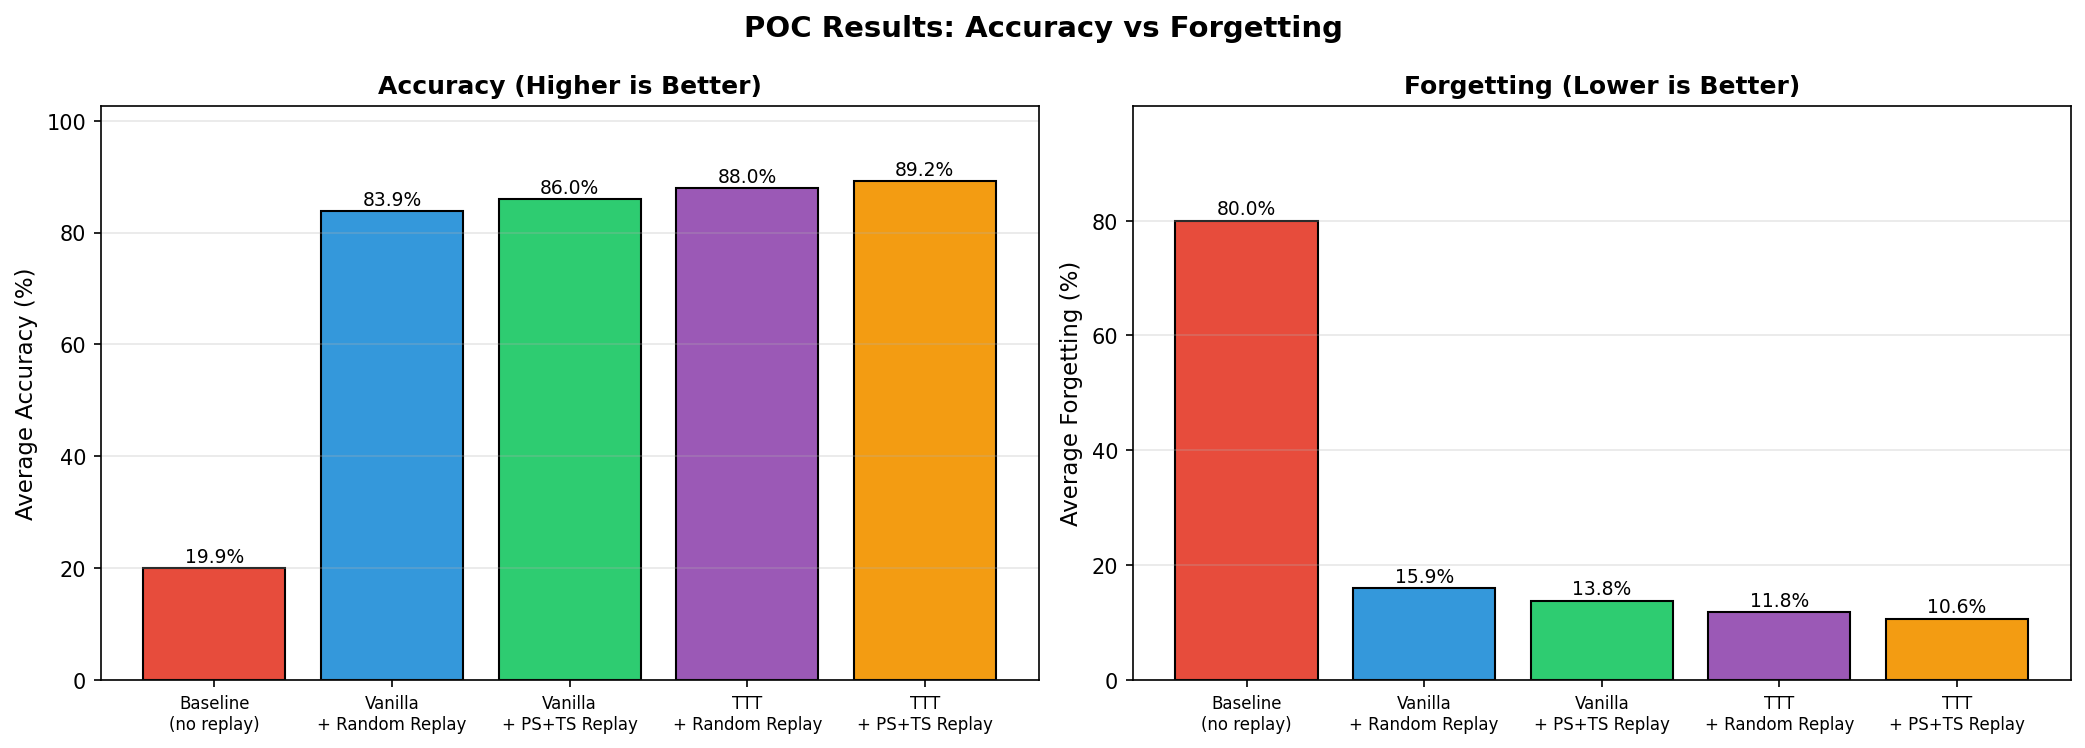
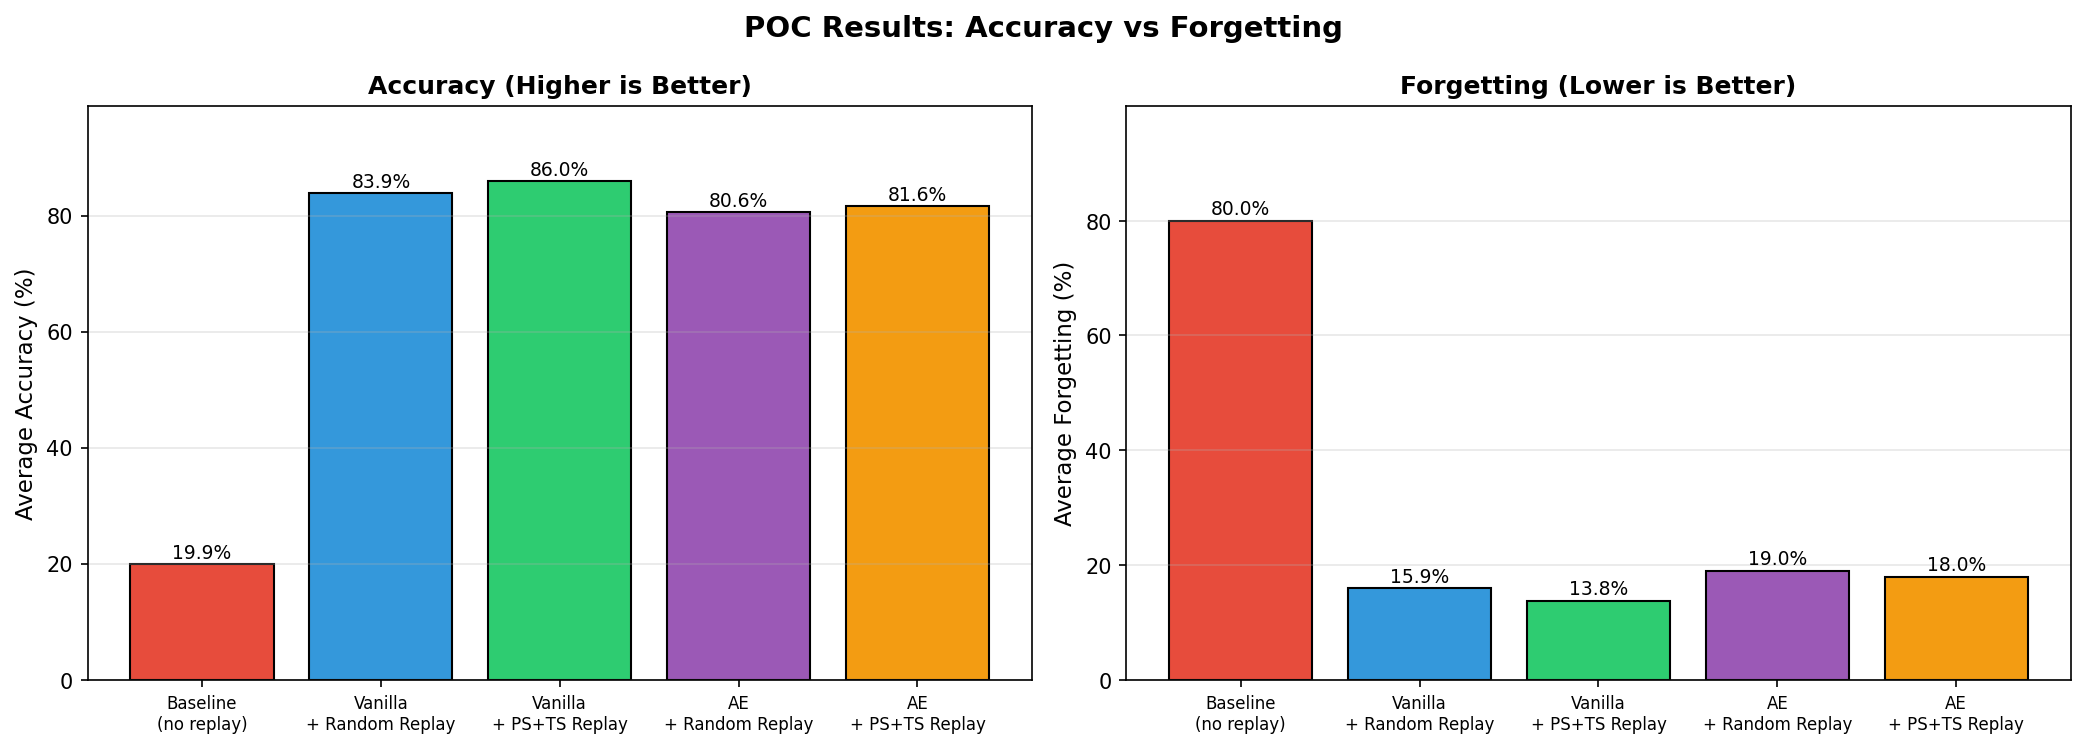
ae results

diff --git a/results/poc/SUMMARY.md b/results/poc/SUMMARY.md
@@ -4,8 +4,8 @@
 Comparing different replay strategies and methods for continual learning:
 - Does replay help? (Baseline vs Replay methods)
 - Does PS+TS improve over random replay?
-- Does TTT (Test-Time Training) help?
-- Does combining TTT with PS+TS give the best results?
+- Does Autoencoder (reconstruction loss) help?
+- Does combining Autoencoder with PS+TS give the best results?
 
 ## Setup
 - Dataset: Split-MNIST (5 tasks)
@@ -19,17 +19,17 @@ Comparing different replay strategies and methods for continual learning:
 | Baseline (no replay) | 19.9% | 80.0% | - |
 | Vanilla + Random Replay | 83.9% | 15.9% | +63.9% |
 | Vanilla + PS+TS Replay | 86.0% | 13.8% | +66.0% |
-| TTT + Random Replay | 88.0% | 11.8% | +68.1% |
-| TTT + PS+TS Replay | 89.2% | 10.6% | +69.3% |
+| AE + Random Replay | 80.6% | 19.0% | +60.7% |
+| AE + PS+TS Replay | 81.6% | 18.0% | +61.7% |
 
 ## Key Findings
 
 - **Vanilla Random vs Baseline:** +63.9%
 - **Vanilla PS+TS vs Baseline:** +66.0%
-- **TTT Random vs Baseline:** +68.1%
-- **TTT PS+TS vs Baseline:** +69.3%
-- **TTT PS+TS vs TTT Random:** +1.3%
+- **AE Random vs Baseline:** +60.7%
+- **AE PS+TS vs Baseline:** +61.7%
+- **AE PS+TS vs AE Random:** +1.0%
 
 ## Conclusion
 
-**Best Method:** TTT + PS+TS Replay with 89.2% accuracy
+**Best Method:** Vanilla + PS+TS Replay with 86.0% accuracy
